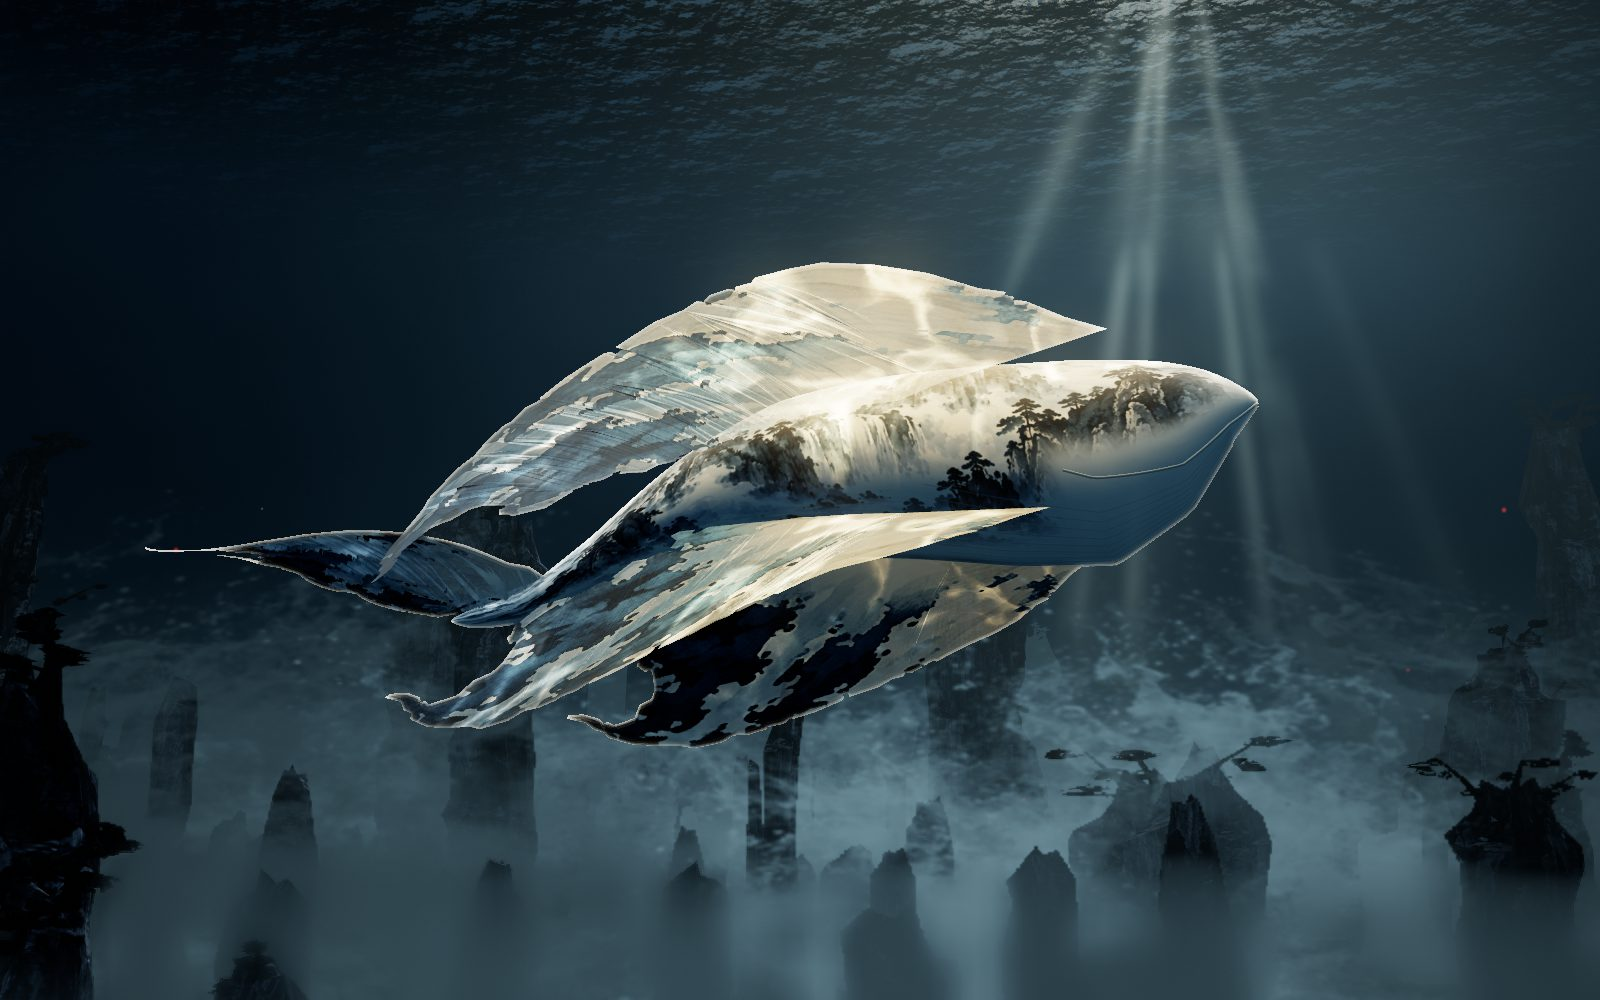
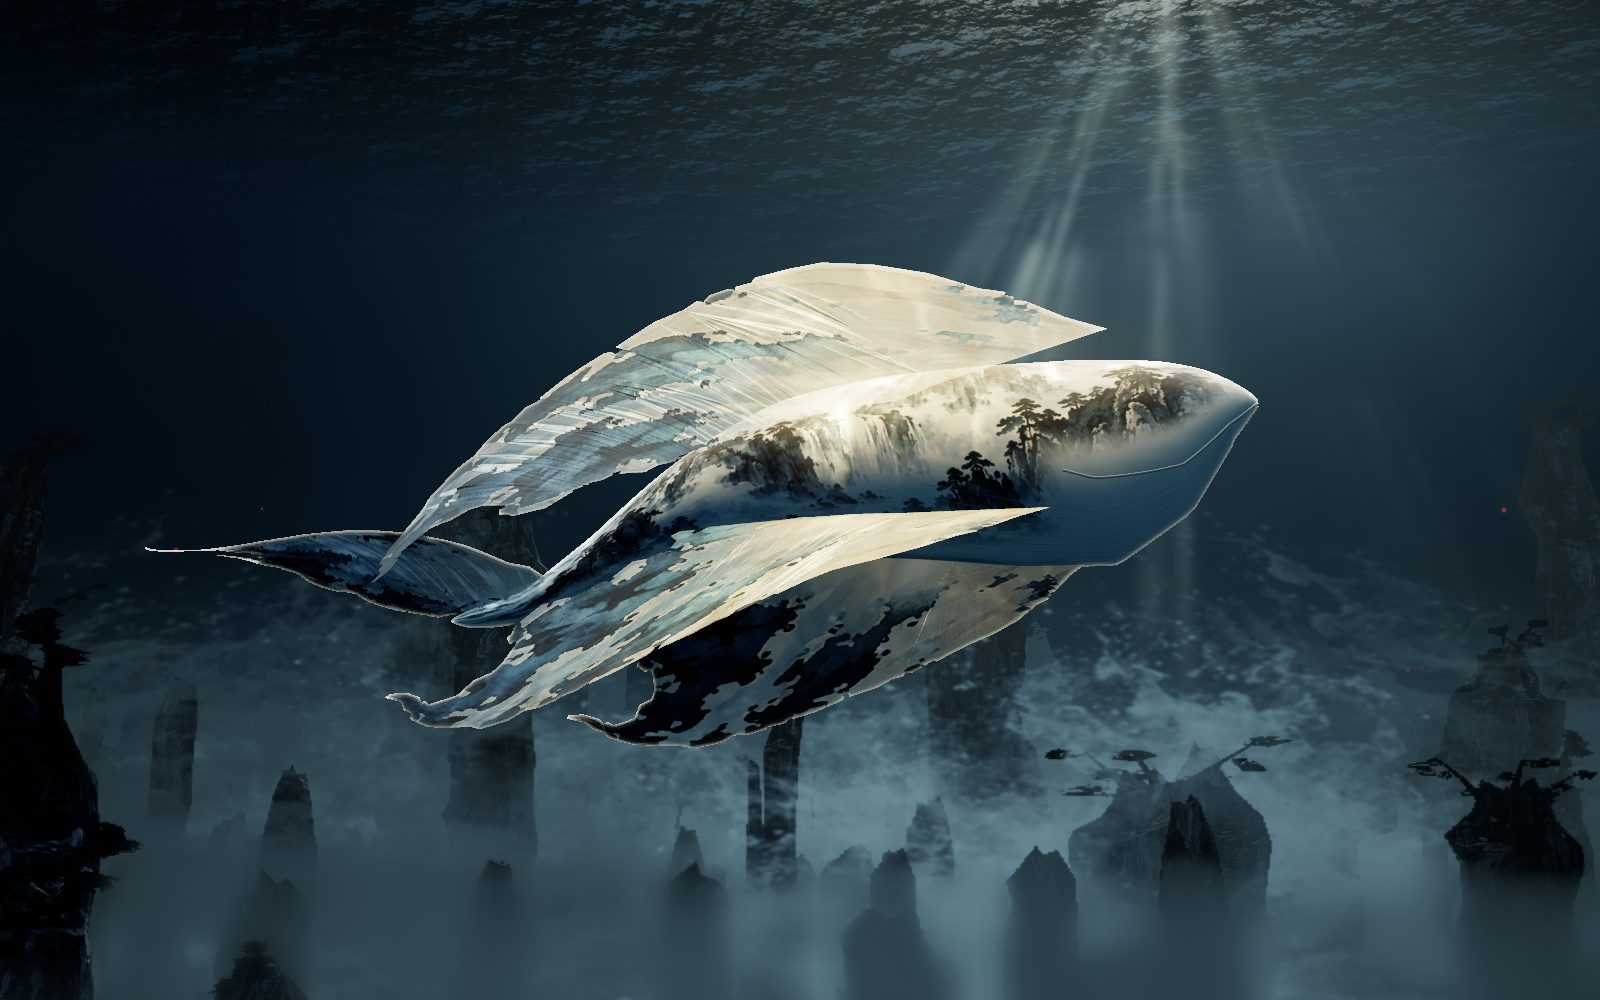
xiaoyaoyou: M4 fins take light softly, with no bands; rays are many, fine and dispersed

diff --git a/games/xiaoyaoyou/src/post.js b/games/xiaoyaoyou/src/post.js
@@ -3,7 +3,7 @@ import * as THREE from 'three';
 // HDR scene -> half-resolution volumetric light and mist -> bloom -> filmic grade.
 // Every pass is counted in renderer.info, so the draw-call gate sees all of it.
 
-const RAY_COUNT = 17;
+const RAY_COUNT = 28;
 const VERTEX = 'varying vec2 vUv;void main(){vUv=uv;gl_Position=vec4(position.xy,0.,1.);}';
 
 const lerp = (a, b, t) => a + (b - a) * t;
@@ -179,14 +179,14 @@ void main(){
     float across=(angle-r.x)/r.y, along=below/(r.z*tall);
     // Each ray is interrupted along its own length, so none runs as one smooth bar.
     float gaps=texture2D(tGobo,vec2(r.x*7.3+float(i)*.37,below*1.5+uTime*.003)).b;
-    rays+=r.w*exp(-across*across)*exp(-along*along)*smoothstep(.22,.62,gaps);
+    rays+=r.w*exp(-across*across)*exp(-along*along)*smoothstep(.2,.7,gaps);
   }
   float strands=texture2D(tGobo,vec2(angle*5.1+uTime*.004,.13)).a;
   float broken=.4+1.2*texture2D(tGobo,vec2(angle*2.3,below*.9+uTime*.002)).b;
   // Light gathers around one opening in the surface.
   vec2 source=(vUv-clamp(uVanish,vec2(.08,0.),vec2(.92,1.06)))*vec2(uAspect,1.);
   // Soft-limited: strong columns stay light in water and never become a solid wall.
-  float light=shafts*(reach/uReach)*phase*uShaftGain*22.*(.03+11.5*rays*broken*(.56+.44*strands))*smoothstep(-.1,.3,vUv.y);
+  float light=shafts*(reach/uReach)*phase*uShaftGain*22.*(.03+15.*rays*broken*(.56+.44*strands))*smoothstep(-.1,.3,vUv.y);
   vec3 scatter=uShaft*.6*(1.-exp(-light*1.7));
   // One shared bright region near the surface, which the rays visibly leave.
   // A broad glow under the surface, which the rays are embedded in.
@@ -441,12 +441,12 @@ export function createPost(renderer, gobo, seedRandom) {
   // They fall in uneven clusters with gaps between, never at even spacing. Most die early;
   // only a couple reach far, and those are the fainter ones.
   const rayRandom = seedRandom;
-  const clusters = [.14, .4, .52, .83];
+  const clusters = [.12, .34, .47, .58, .86];
   const RAY_SET = Array.from({ length: RAY_COUNT }, (_, i) => {
-    const place = clusters[i % clusters.length] + (rayRandom() + rayRandom() - 1) * .085;
-    const thick = rayRandom() < .3, long = rayRandom();
-    return { angle: (place - .5) * .84, width: thick ? .04 + rayRandom() * .05 : .012 + rayRandom() * .022,
-      reach: .16 + long * long * .62, gain: (thick ? .46 : .5 + rayRandom() * .7) * (1 - .55 * long) * (1 - Math.pow(Math.abs(place - .5) * 1.5, 2)) };
+    const place = clusters[i % clusters.length] + (rayRandom() + rayRandom() - 1) * .12;
+    const thick = rayRandom() < .22, long = rayRandom();
+    return { angle: (place - .5) * 1.04, width: thick ? .035 + rayRandom() * .05 : .007 + rayRandom() * .017,
+      reach: .13 + long * long * .52, gain: (thick ? .3 : .34 + rayRandom() * .62) * (1 - .6 * long) * (1 - Math.pow(Math.abs(place - .5) * 1.4, 2)) };
   });
   const volume = pass(volumeFragment.replaceAll('RAYS', String(RAY_COUNT)), {
     tDepth: { value: depthTexture }, tGobo: { value: gobo }, tMist: { value: mist }, tMistMap: { value: null },
@@ -533,8 +533,8 @@ export function createPost(renderer, gobo, seedRandom) {
       // Rays drift, and slide round as the camera turns, wrapping at the ends of the fan.
       const pan = Math.atan2(camera.matrixWorld.elements[8], camera.matrixWorld.elements[10]) * .3;
       RAY_SET.forEach((ray, i) => {
-        const place = ((ray.angle + pan + Math.sin(time * .04 + i * 2.1) * .012) / .84 + .5 + 100) % 1;
-        volume.uniforms.uRays.value[i].set((place - .5) * .84, ray.width, ray.reach, ray.gain * Math.sin(place * Math.PI));
+        const place = ((ray.angle + pan + Math.sin(time * .04 + i * 2.1) * .012) / 1.1 + .5 + 100) % 1;
+        volume.uniforms.uRays.value[i].set((place - .5) * 1.1, ray.width, ray.reach, ray.gain * Math.sin(place * Math.PI));
       });
       draw(volume, volumeA);
       const near = camera.near, far = camera.far;

diff --git a/games/xiaoyaoyou/src/kun.js b/games/xiaoyaoyou/src/kun.js
@@ -150,7 +150,9 @@ export function prepareKun(root, gobo, light) {
                         texture2D(kunGobo,q*.73-vec2(kunTime*.008,-kunTime*.012)).g+.2);
           float pool=exp(-pow((vKunAlong-${LOOK.poolCenter.toFixed(2)})/${LOOK.poolWidth.toFixed(2)},2.));
           vec3 kunKey=mix(kunCool,kunWarm,pool);
-          vec3 key=kunKey*lit*(.62+${LOOK.caustic.toFixed(2)}*web*web);
+          // Sheets take the caustics softly: light through a membrane spreads, it never bands.
+          float dapple=mix(web*web,.14+.3*web,kunSheet);
+          vec3 key=kunKey*lit*(.62+${LOOK.caustic.toFixed(2)}*dapple);
           // Strong top light lifts the ink toward the paper, as it does in the key art.
           vec3 painted=mix(diffuseColor.rgb,mix(vec3(.94,.93,.89),vec3(.97,.9,.76),pool),lit*lit*.3*(1.-kunSheet*.8));
           // Pleats read as soft grooves, and the ridge strip melts into the back.
@@ -166,7 +168,7 @@ export function prepareKun(root, gobo, light) {
             // Thin sheets glow where light passes through them; dense ink stays dark.
             float paper=clamp((1.-diffuseColor.a)/.62,0.,1.);
             float through=abs(ndl)*.55+.7*pow(clamp(dot(toEye,-kunLight),0.,1.),2.);
-            totalEmissiveRadiance+=diffuseColor.rgb*kunKey*paper*(.03+.2*through)*(.7+web*web*2.);
+            totalEmissiveRadiance+=diffuseColor.rgb*kunKey*(.3+.7*paper)*(.03+.17*through)*(.8+web*.5);
           }
         }
       `);
@@ -178,7 +180,7 @@ export function prepareKun(root, gobo, light) {
       shader.vertexShader=shader.vertexShader.replace('#include <project_vertex>',
         '#include <project_vertex>\nvKunWorld=(modelMatrix*vec4(transformed,1.)).xyz;\nvKunNormal=mat3(modelMatrix)*objectNormal;\nvKunAlong=clamp((kunNose-position.z)/(kunNose-kunTail),0.,1.);');
     };
-    material.customProgramCacheKey=()=> `kun-vertical-swim-v1-matte-sheet-v5-${sheet?1:0}`;
+    material.customProgramCacheKey=()=> `kun-vertical-swim-v1-matte-sheet-v6-${sheet?1:0}`;
     mesh.material=material; mesh.renderOrder=sheet?2:pleat?1:0;
     // Rest bounds do not include the shader's displacement.
     mesh.frustumCulled=false;
